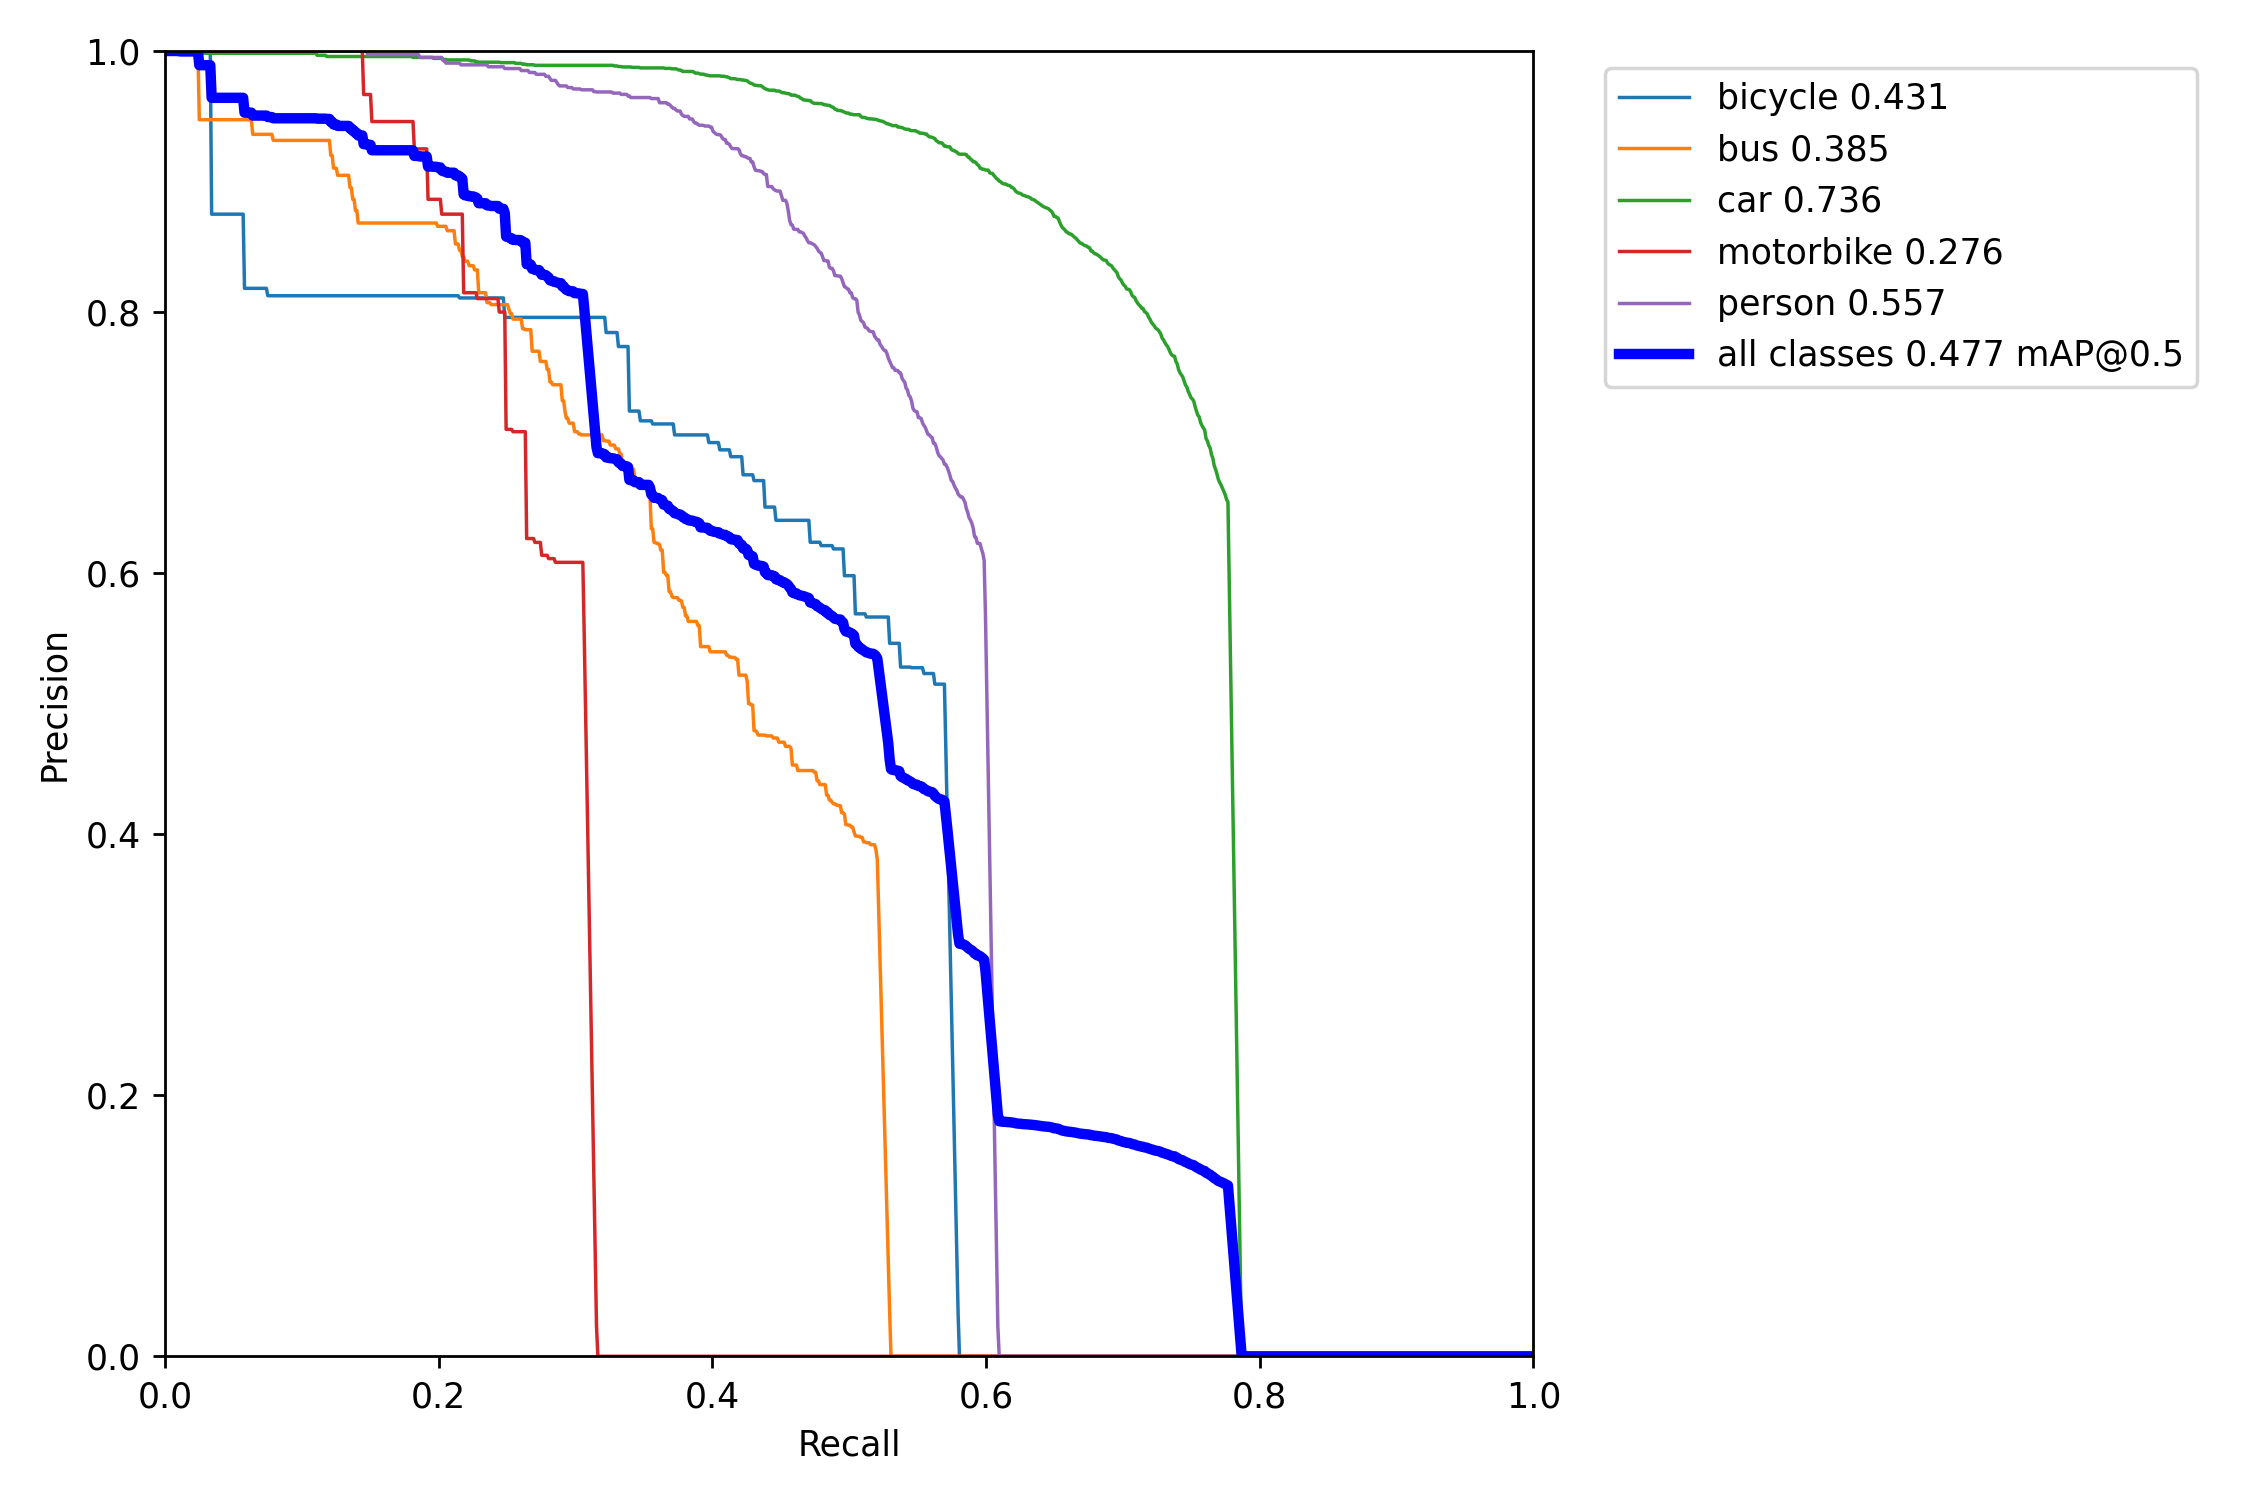
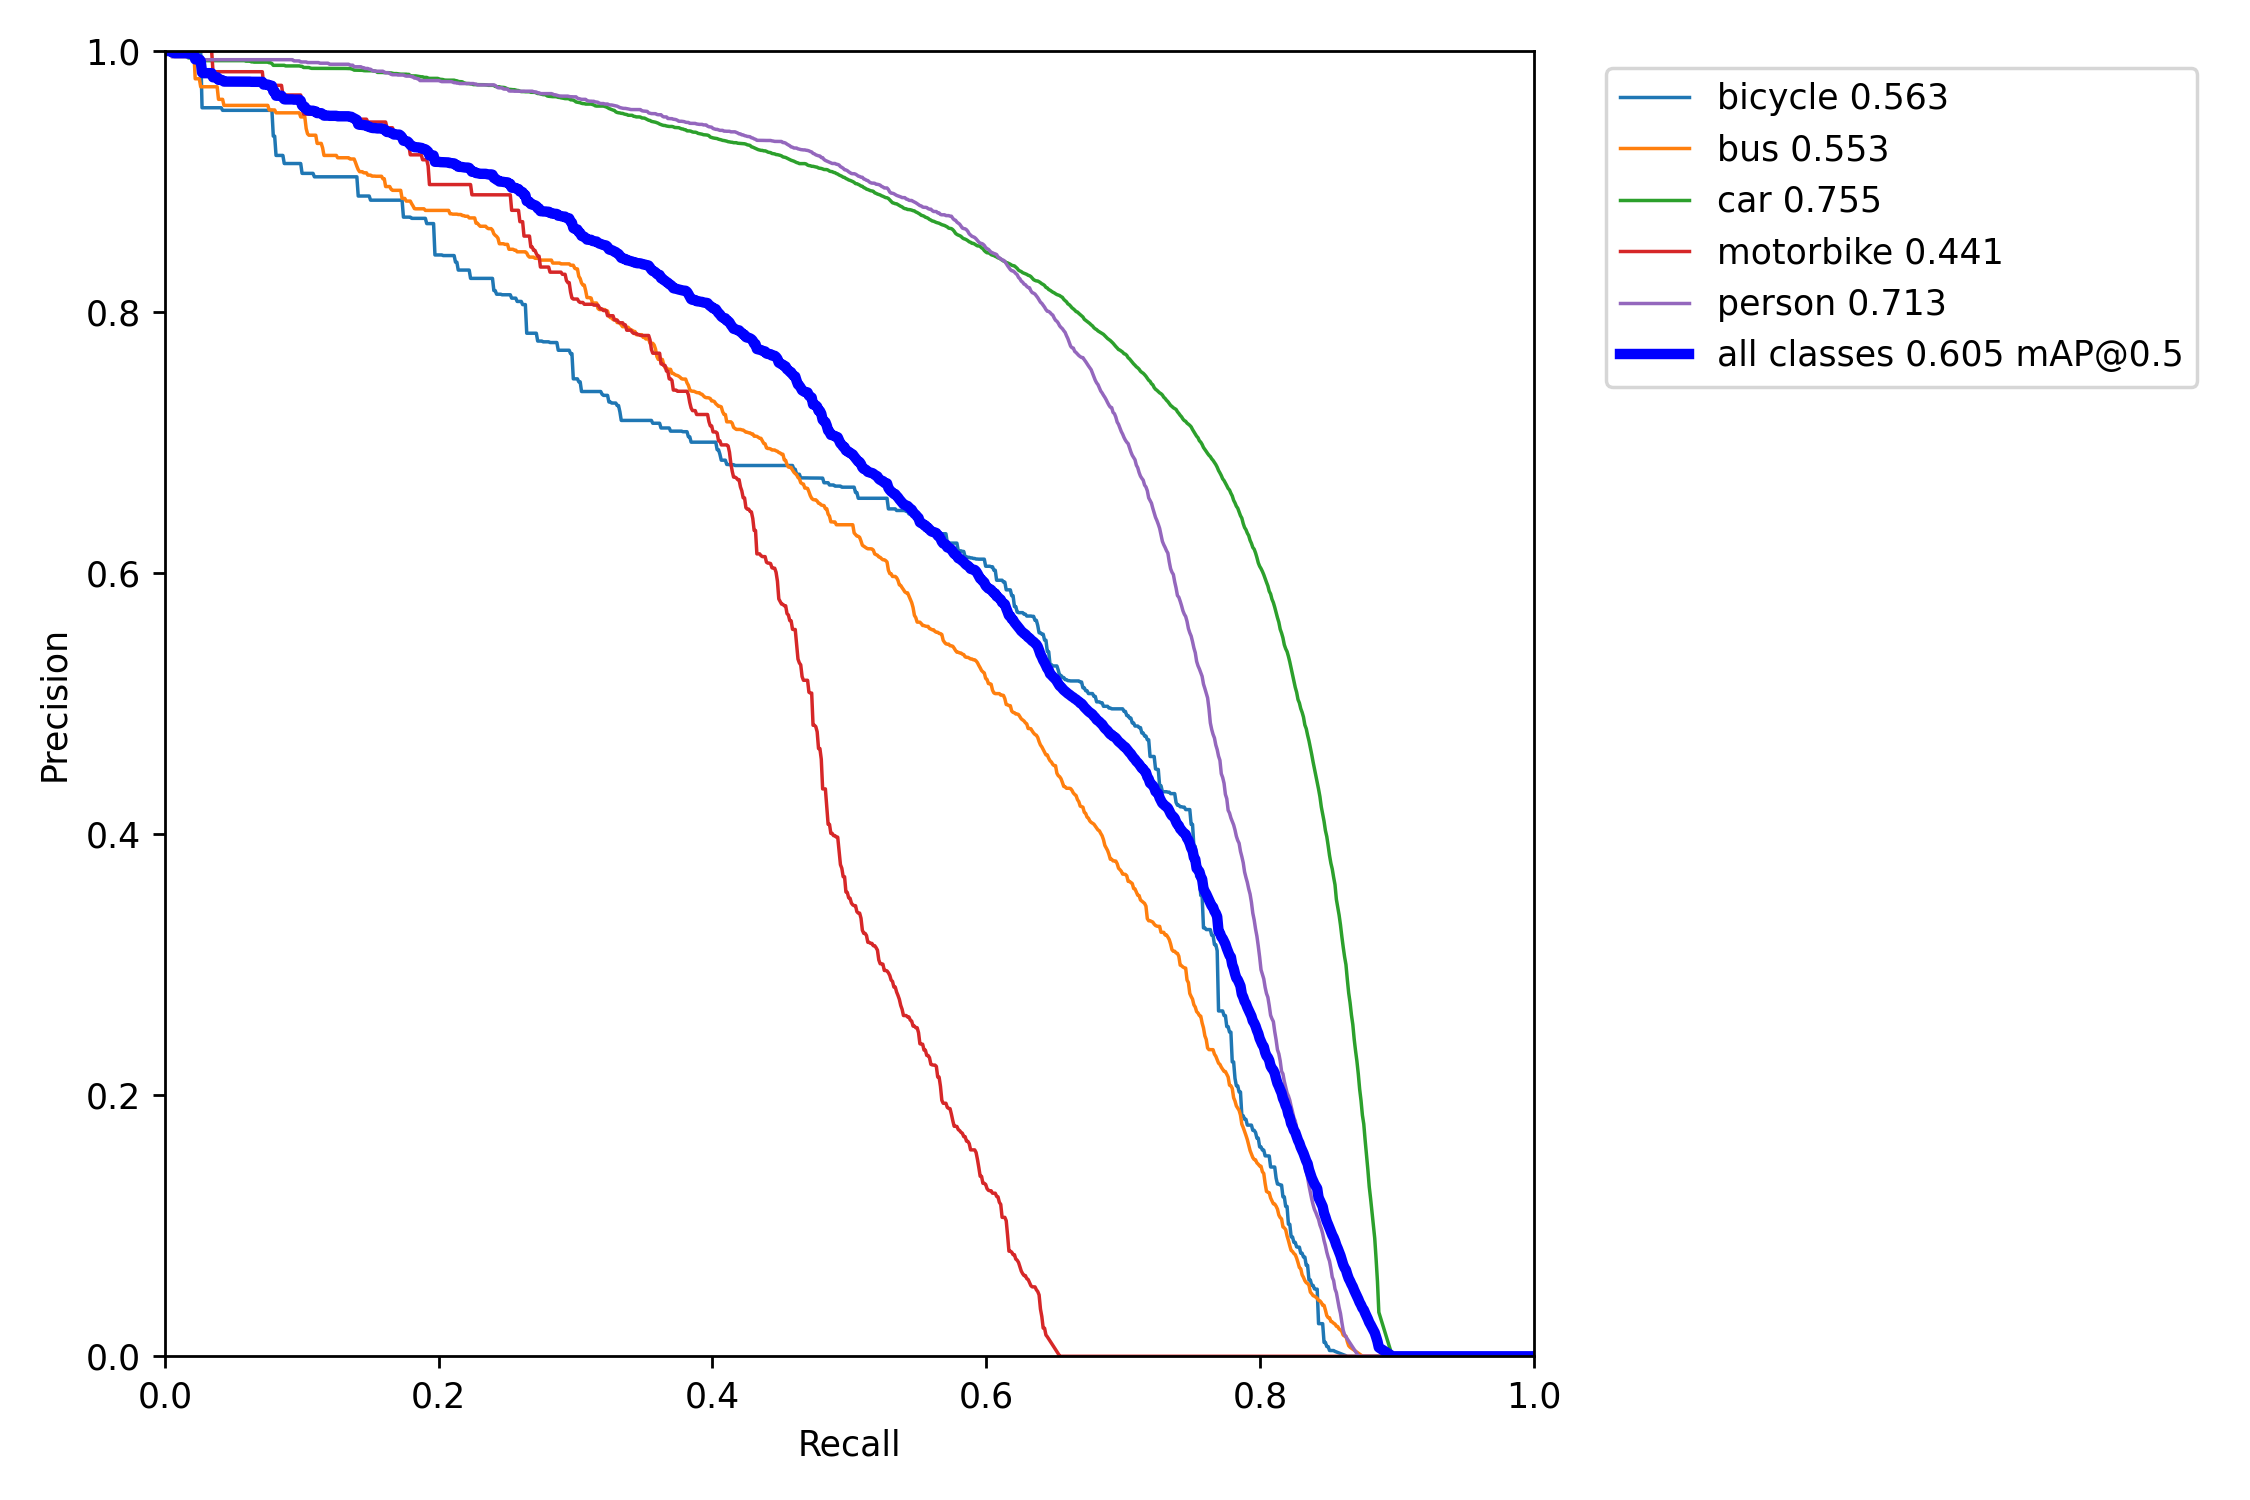
update results graphs

diff --git a/test.py b/test.py
@@ -14,150 +14,57 @@ import os
 
 class_names = ['bicycle', 'bus', 'car', 'motorbike', 'person'] #class names RTTS dataset
 
-root_dir='../datasets/RTTS/images/val/'
+root_dir='../datasets/RTTS/images/val_large/'
 num_workers=min(8, os.cpu_count()-1)
-batch_size=4
+batch_size=16
+image_size=416
 shuffle=False
 device= 'cuda:0' if torch.cuda.is_available() else 'cpu'
 #create dataloader
-dataloader = createRTTSDataLoader(root_dir= root_dir, batch_size=batch_size, num_workers=num_workers, shuffle=shuffle)
+dataloader = createRTTSDataLoader(root_dir= root_dir, batch_size=batch_size, num_workers=num_workers, shuffle=shuffle , image_size= image_size)
 
-def testYolov6(inf_num = 0):
-    print(f"Inference number {inf_num} on Yolov6 model ...")
-    run_dir = './runs/Yolov6_inference_'+str(inf_num)
+conf_thres = 0.001
+nms_thres = 0.35
 
-    #create model
-    model = init_Yolov6().to(device)
-    #evaluate model
-    evaluate(model, 
-            dataloader,
-            class_names=class_names,
-            img_size = 544, 
-            device= device, 
-            conf_thres=0.25, 
-            nms_thres=0.40,
-            run_dir= run_dir, 
-            verbose=True)
-    
-def testYolov3(inf_num = 0):
-    print(f"Inference number {inf_num} on Yolov3 model ...")
-    run_dir = './runs/Yolov3_inference_'+str(inf_num)
-    #create model
-    model = init_Yolov3().to(device)
-    #evaluate model
-    evaluate(model, 
-            dataloader,
-            class_names=class_names,
-            img_size = 544, 
-            device= device, 
-            conf_thres=0.25, 
-            nms_thres=0.40,
-            run_dir= run_dir, 
-            verbose=True)
-    
-def testDEYOLOv3(inf_num = 0):
-    print(f"Inference number {inf_num} on DEYOLOv3 model ...")
-    class DEYOLOv3(nn.Module):
-        def __init__(self):
-            super(DEYOLOv3, self).__init__()
-            self.yolo = init_Yolov3()
-            self.de = init_DENet()
-        def forward(self, x):
-            x = self.de(x)
-            x = self.yolo(x)
-            return x
-    
-    run_dir = './runs/DEYOLOv3_inference_'+str(inf_num)
-    #create model
-    model = DEYOLOv3().eval().to(device)
-    #evaluate model
-    evaluate(model, 
-            dataloader,
-            class_names=class_names,
-            img_size = 544, 
-            device= device, 
-            conf_thres=0.25, 
-            nms_thres=0.40,
-            run_dir= run_dir, 
-            verbose=True)
-     
-def testDEYOLOv6(inf_num = 0):
-    print(f"Inference number {inf_num} on DEYOLOv6 model ...")
-    class DEYOLOv6(nn.Module):
-        def __init__(self):
-            super(DEYOLOv6, self).__init__()
-            self.yolo = init_Yolov6()
-            self.de = init_DENet()
-        def forward(self, x):
-            x = self.de(x)
-            x = self.yolo(x)
-            return x
-        
-    run_dir = './runs/DEYOLOv6_inference_'+str(inf_num)
-    #create model
-    model = DEYOLOv6().eval().to(device)
-    #evaluate model
-    evaluate(model,
-            dataloader,
-            class_names=class_names,
-            img_size = 544,
-            device= device,
-            conf_thres=0.25,
-            nms_thres=0.40,
-            run_dir= run_dir,
-            verbose=True)
+class DEYOLOv3(nn.Module):
+    def __init__(self):
+        super(DEYOLOv3, self).__init__()
+        self.yolo = init_Yolov3()
+        self.de = init_DENet()
+    def forward(self, x):
+        x = self.de(x)
+        x = self.yolo(x)
+        return x
 
-def testTransWeatherYOLOv3(inf_num = 0):
-    print(f"Inference number {inf_num} on TransWeatherYOLOv3  model ...")
-    class TransWeatherYOLOv3(nn.Module):
-        def __init__(self):
-            super(TransWeatherYOLOv3, self).__init__()
-            self.yolo = init_Yolov3()
-            self.transweather = init_TransWeather()
-        def forward(self, x):
-            x = self.transweather(x)
-            x = self.yolo(x)
-            return x
+class DEYOLOv6(nn.Module):
+    def __init__(self):
+        super(DEYOLOv6, self).__init__()
+        self.yolo = init_Yolov6()
+        self.de = init_DENet()
+    def forward(self, x):
+        x = self.de(x)
+        x = self.yolo(x)
+        return x
+
+class TransWeatherYOLOv3(nn.Module):
+    def __init__(self):
+        super(TransWeatherYOLOv3, self).__init__()
+        self.yolo = init_Yolov3()
+        self.transweather = init_TransWeather()
+    def forward(self, x):
+        x = self.transweather(x)
+        x = self.yolo(x)
+        return x
     
-    run_dir = './runs/TransWeatherYOLOv3_inference_'+str(inf_num)
-    #create model
-    model = TransWeatherYOLOv3().eval().to(device)
-    #evaluate model
-    evaluate(model,
-            dataloader,
-            class_names=class_names,
-            img_size = 544,
-            device= device,
-            conf_thres=0.25,
-            nms_thres=0.40,
-            run_dir= run_dir,
-            verbose=True)
-    
-def testTransWeatherYOLOv6(inf_num = 0):
-    print(f"Inference number {inf_num} on TransWeatherYOLOv6  model ...")
-    class TransWeatherYOLOv6(nn.Module):
-        def __init__(self):
-            super(TransWeatherYOLOv6, self).__init__()
-            self.yolo = init_Yolov6()
-            self.transweather = init_TransWeather()
-        def forward(self, x):
-            x = self.transweather(x)
-            x = self.yolo(x)
-            return x
-    
-    run_dir = './runs/TransWeatherYOLOv6_inference_'+str(inf_num)
-    #create model
-    model = TransWeatherYOLOv6().eval().to(device)
-    #evaluate model
-    evaluate(model,
-            dataloader,
-            class_names=class_names,
-            img_size = 544,
-            device= device,
-            conf_thres=0.25,
-            nms_thres=0.40,
-            run_dir= run_dir,
-            verbose=True)
+class TransWeatherYOLOv6(nn.Module):
+    def __init__(self):
+        super(TransWeatherYOLOv6, self).__init__()
+        self.yolo = init_Yolov6()
+        self.transweather = init_TransWeather()
+    def forward(self, x):
+        x = self.transweather(x)
+        x = self.yolo(x)
+        return x
 
 def test(model , model_name , inf_num = 0 , run_dir = './runs/'):
     print(f"Inference number {inf_num} on {model_name} model ...")
@@ -166,20 +73,25 @@ def test(model , model_name , inf_num = 0 , run_dir = './runs/'):
     evaluate(model,
             dataloader,
             class_names=class_names,
-            img_size = 544,
+            img_size = image_size,
             device= device,
-            conf_thres=0.25,
-            nms_thres=0.40,
+            conf_thres= conf_thres,
+            nms_thres= nms_thres,
             run_dir= run_dir,
             verbose=True)
     
 
 if __name__ == '__main__':
-    # inf_num = int(time.localtime().tm_min)
-    inf_num = 1
-    testYolov3(inf_num = inf_num)
-    testYolov6(inf_num = inf_num)
-    testDEYOLOv3(inf_num = inf_num)
-    testDEYOLOv6(inf_num = inf_num)
-    testTransWeatherYOLOv3(inf_num = inf_num)
-    testTransWeatherYOLOv6(inf_num = inf_num)
+    inf_num = 2
+
+    model_names = ["YOLOv3" , "YOLOv6" , "DEYOLOv3" , "DEYOLOv6" , "TransWeatherYOLOv3" , "TransWeatherYOLOv6"]
+    models = [init_Yolov3() , init_Yolov6() , DEYOLOv3() , DEYOLOv6() , TransWeatherYOLOv3() , TransWeatherYOLOv6()]
+    
+    for name , model in zip(model_names , models):
+        model.to(device)
+        test(model , name , inf_num = inf_num)
+    
+
+
+
+    
